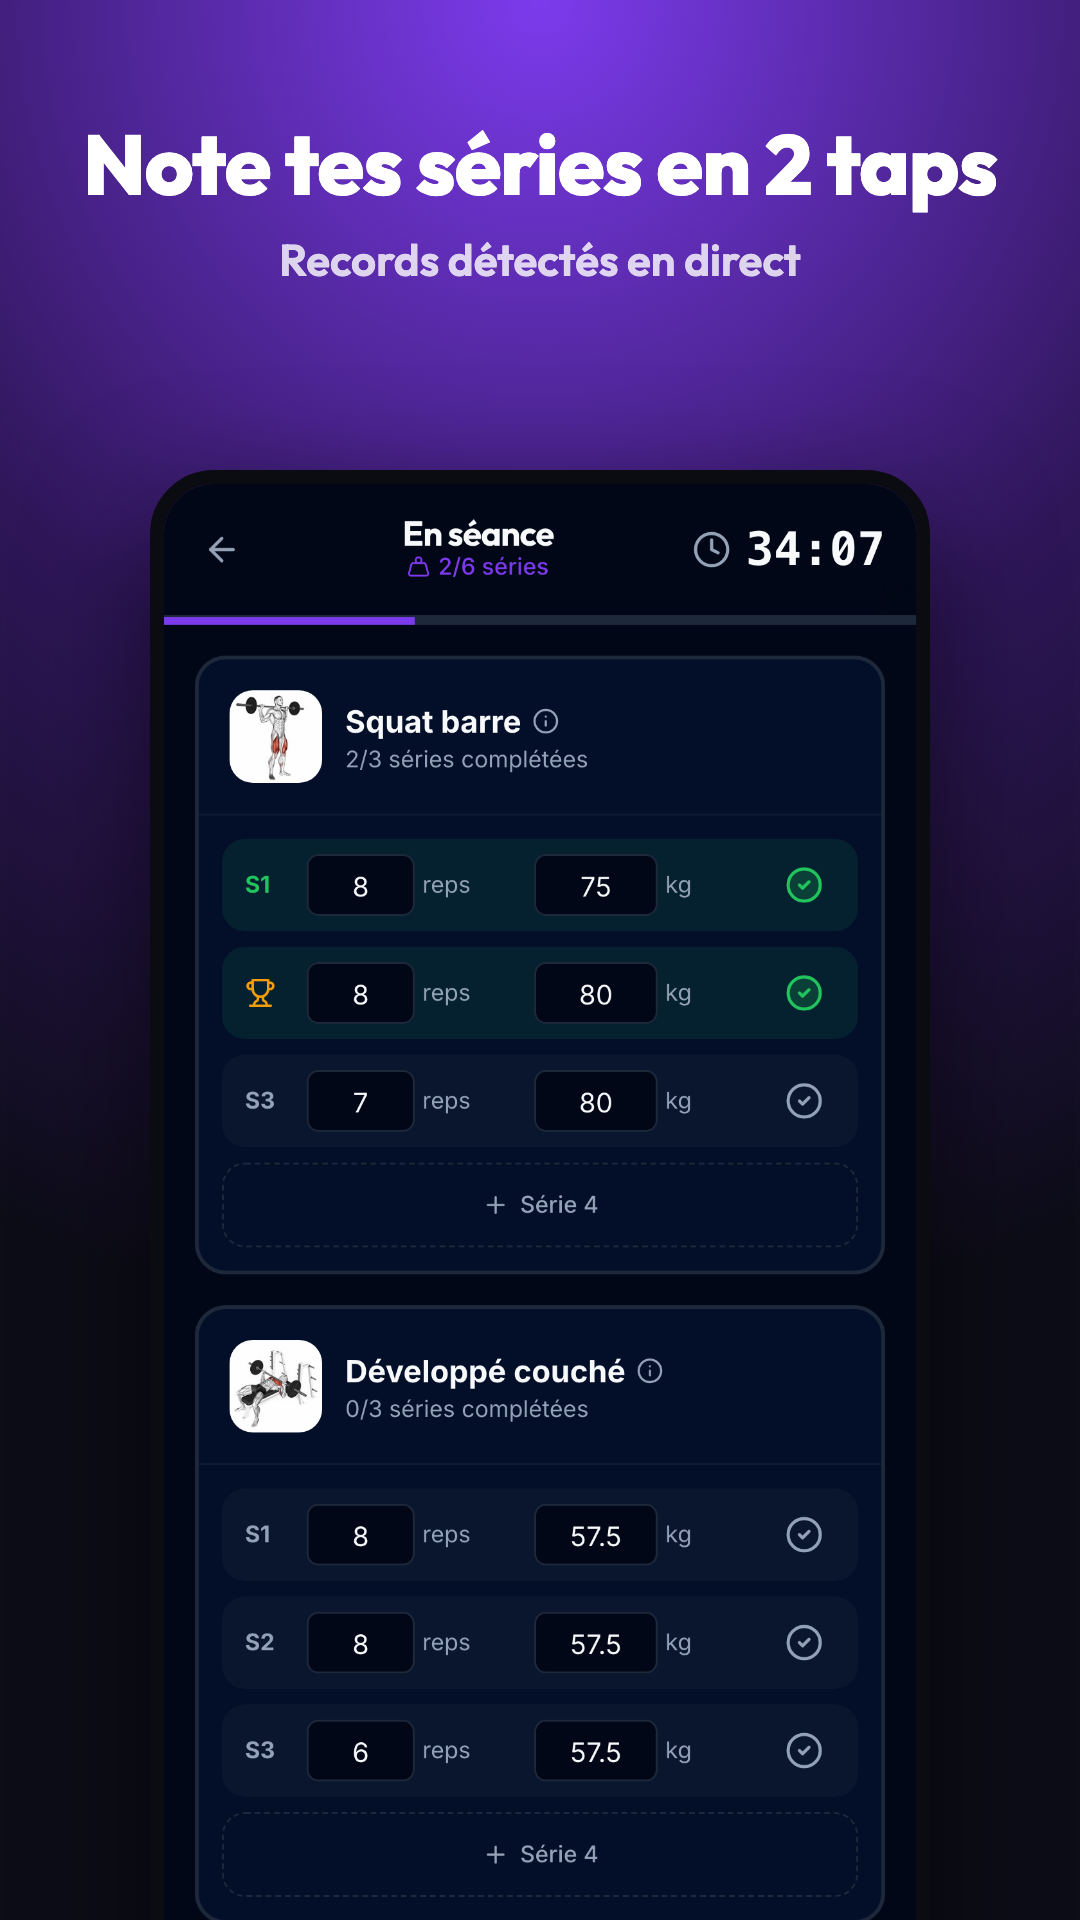
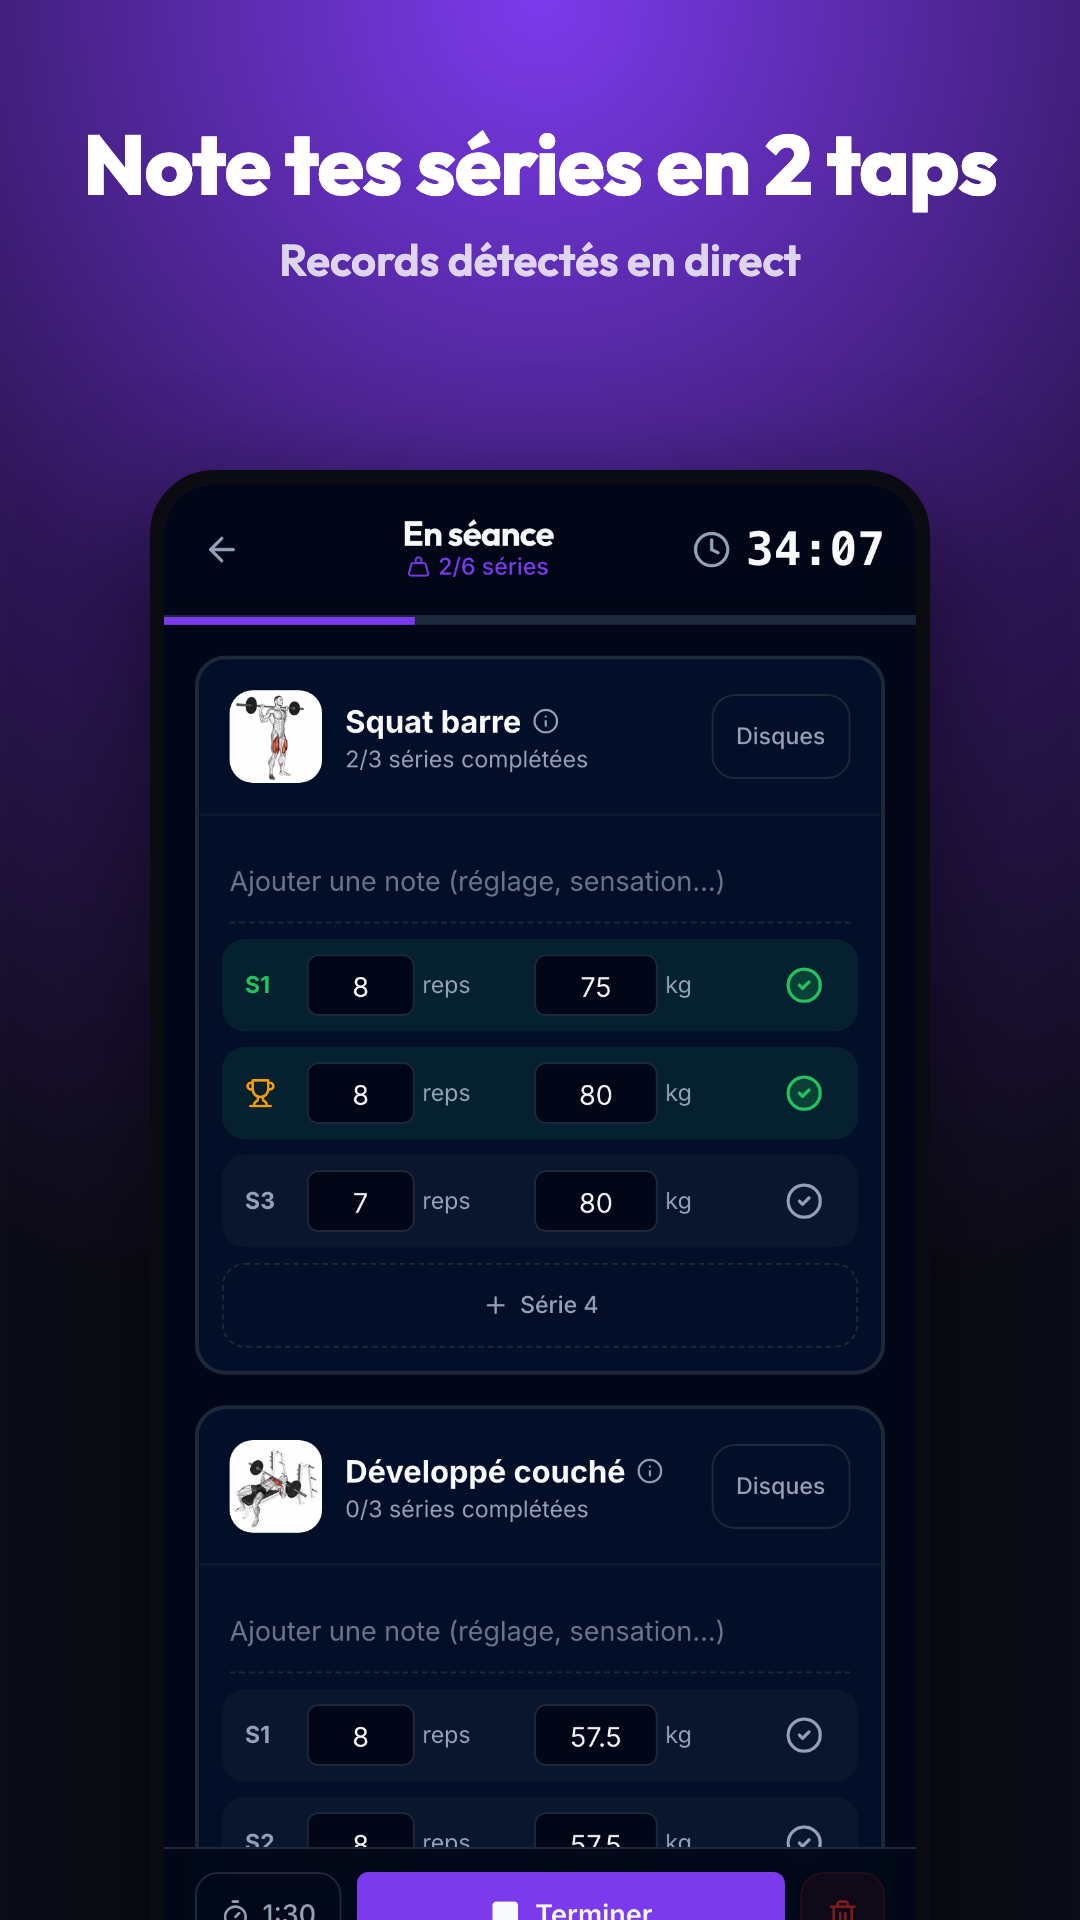
docs(store): captures régénérées (barre de séance corrigée) + nouvelles fonctions dans la description

diff --git a/docs/PLAYSTORE.md b/docs/PLAYSTORE.md
@@ -37,10 +37,12 @@ Reps, c'est ton carnet d'entraînement : gratuit, en français, pour la muscu co
 
 • Musculation : prépare ta séance (séries, répétitions, charges), puis valide chaque série d'un geste. Tes charges de la dernière fois sont pré-remplies.
 • Renforcement au poids du corps : pompes, squats, tractions, gainage… compte tes répétitions en direct.
-• Minuteur de repos avec notification, même écran verrouillé.
+• Minuteur de repos lancé automatiquement après chaque série, avec notification même écran verrouillé.
+• Calculateur de disques : les disques à charger de chaque côté de la barre.
+• Note par exercice (réglage machine, sensation), rappelée à la séance suivante.
 • Ta séance est sauvegardée en continu : même si l'appli se ferme, tu reprends où tu en étais.
 • 1 324 exercices illustrés, avec les muscles ciblés et les consignes pas à pas.
-• Modèles de séance pour relancer tes routines préférées.
+• Modèles de séance, ou refais une séance passée en un geste depuis l'historique.
 
 ━━━ VOIS TA PROGRESSION ━━━
 
@@ -48,6 +50,7 @@ Reps, c'est ton carnet d'entraînement : gratuit, en français, pour la muscu co
 • Une courbe par exercice : 1RM estimé, charge max ou volume, sur 3 mois, 1 an ou depuis le début.
 • Historique complet de tes séances et de tes records.
 • Statistiques : calendrier d'activité, progression semaine par semaine, créneaux où tu t'entraînes le plus.
+• Muscles travaillés : tes séries par groupe musculaire sur 7 ou 30 jours.
 • Série de jours d'entraînement d'affilée, renfo et muscu confondus.
 
 ━━━ RESTE MOTIVÉ ━━━
@@ -71,7 +74,7 @@ Tes séances sont synchronisées de façon sécurisée et ne sont jamais revendu
 Débutant ou confirmé, lance ta première séance : chaque rep compte.
 ```
 
-*(~2 400 caractères. À ne pas promettre tant que ce n'est pas tranché : « sans pub », niveaux — il n'y a pas de système de niveaux dans l'appli.)*
+*(~2 750 caractères. À ne pas promettre tant que ce n'est pas tranché : « sans pub », niveaux — il n'y a pas de système de niveaux dans l'appli.)*
 
 ---
 
